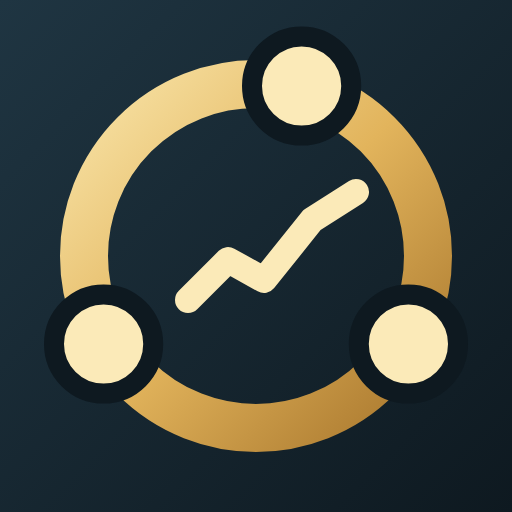
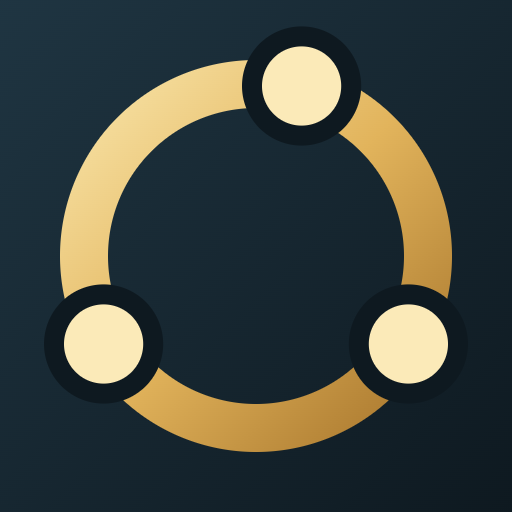
Icône OrApp : retour à l'anneau d'Orbis, sans la courbe

Changed region(s): [[0.3438, 0.3438, 0.7188, 0.625]]

diff --git a/index.html b/index.html
@@ -12,9 +12,9 @@
     <link rel="icon" type="image/svg+xml" href="icon.svg" />
     <link rel="apple-touch-icon" href="icon.png" />
     <title>OrApp</title>
-    <link rel="stylesheet" href="style.css?v=20261109-orapp" />
-    <link rel="stylesheet" href="estimation.css?v=20261109-orapp" />
-    <link rel="stylesheet" href="print.css?v=20261109-orapp" />
+    <link rel="stylesheet" href="style.css?v=20261110-icone" />
+    <link rel="stylesheet" href="estimation.css?v=20261110-icone" />
+    <link rel="stylesheet" href="print.css?v=20261110-icone" />
   </head>
   <body data-view="cours">
     <div id="pull-indicator" aria-hidden="true">
@@ -245,20 +245,20 @@
         </details>
       </section>
     </main>
-    <script src="fiscal.js?v=20261109-orapp"></script>
-    <script src="freshness.js?v=20261109-orapp"></script>
-    <script src="gold-chart.js?v=20261109-orapp"></script>
-    <script src="app.js?v=20261109-orapp"></script>
-    <script src="estimation.js?v=20261109-orapp"></script>
-    <script src="silver.js?v=20261109-orapp"></script>
-    <script src="cours-plus.js?v=20261109-orapp"></script>
-    <script src="meteo.js?v=20261109-orapp"></script>
-    <script src="c3e.js?v=20261109-orapp"></script>
-    <script src="mobile.js?v=20261109-orapp"></script>
-    <script src="alignment.js?v=20261109-orapp"></script>
-    <script src="quick-prices.js?v=20261109-orapp"></script>
-    <script src="print.js?v=20261109-orapp"></script>
-    <script src="edit-fields.js?v=20261109-orapp"></script>
-    <script src="update.js?v=20261109-orapp"></script>
+    <script src="fiscal.js?v=20261110-icone"></script>
+    <script src="freshness.js?v=20261110-icone"></script>
+    <script src="gold-chart.js?v=20261110-icone"></script>
+    <script src="app.js?v=20261110-icone"></script>
+    <script src="estimation.js?v=20261110-icone"></script>
+    <script src="silver.js?v=20261110-icone"></script>
+    <script src="cours-plus.js?v=20261110-icone"></script>
+    <script src="meteo.js?v=20261110-icone"></script>
+    <script src="c3e.js?v=20261110-icone"></script>
+    <script src="mobile.js?v=20261110-icone"></script>
+    <script src="alignment.js?v=20261110-icone"></script>
+    <script src="quick-prices.js?v=20261110-icone"></script>
+    <script src="print.js?v=20261110-icone"></script>
+    <script src="edit-fields.js?v=20261110-icone"></script>
+    <script src="update.js?v=20261110-icone"></script>
   </body>
 </html>

diff --git a/sw.js b/sw.js
@@ -1,5 +1,5 @@
 // Une seule valeur à changer à chaque version (identique au ?v= de index.html).
-const VERSION = '20261109-orapp';
+const VERSION = '20261110-icone';
 const CACHE = 'mon-or-' + VERSION;
 self.addEventListener('install', e => {
   self.skipWaiting();

diff --git a/CHANGELOG.md b/CHANGELOG.md
@@ -2,8 +2,8 @@
 
 ## 09/11/2026 — GoldApp devient OrApp
 
-- Nouveau nom et nouvelle icône, tirée du logo d’Orbis : l’anneau doré et ses trois points,
-  avec une courbe de cours au centre. Logo complet : `orapp-logo.svg` / `orapp-logo.png`.
+- Nouveau nom et nouvelle icône, celle d’Orbis : l’anneau doré et ses trois points.
+- Logo complet : `orapp-logo.svg` / `orapp-logo.png`.
 - Sur l’iPhone, le nom et l’icône de l’écran d’accueil ne changent qu’en réinstallant l’app
   (Safari, Partager, Sur l’écran d’accueil). Le widget Scriptable affiche « OrApp » une fois
   le nouveau script collé.
